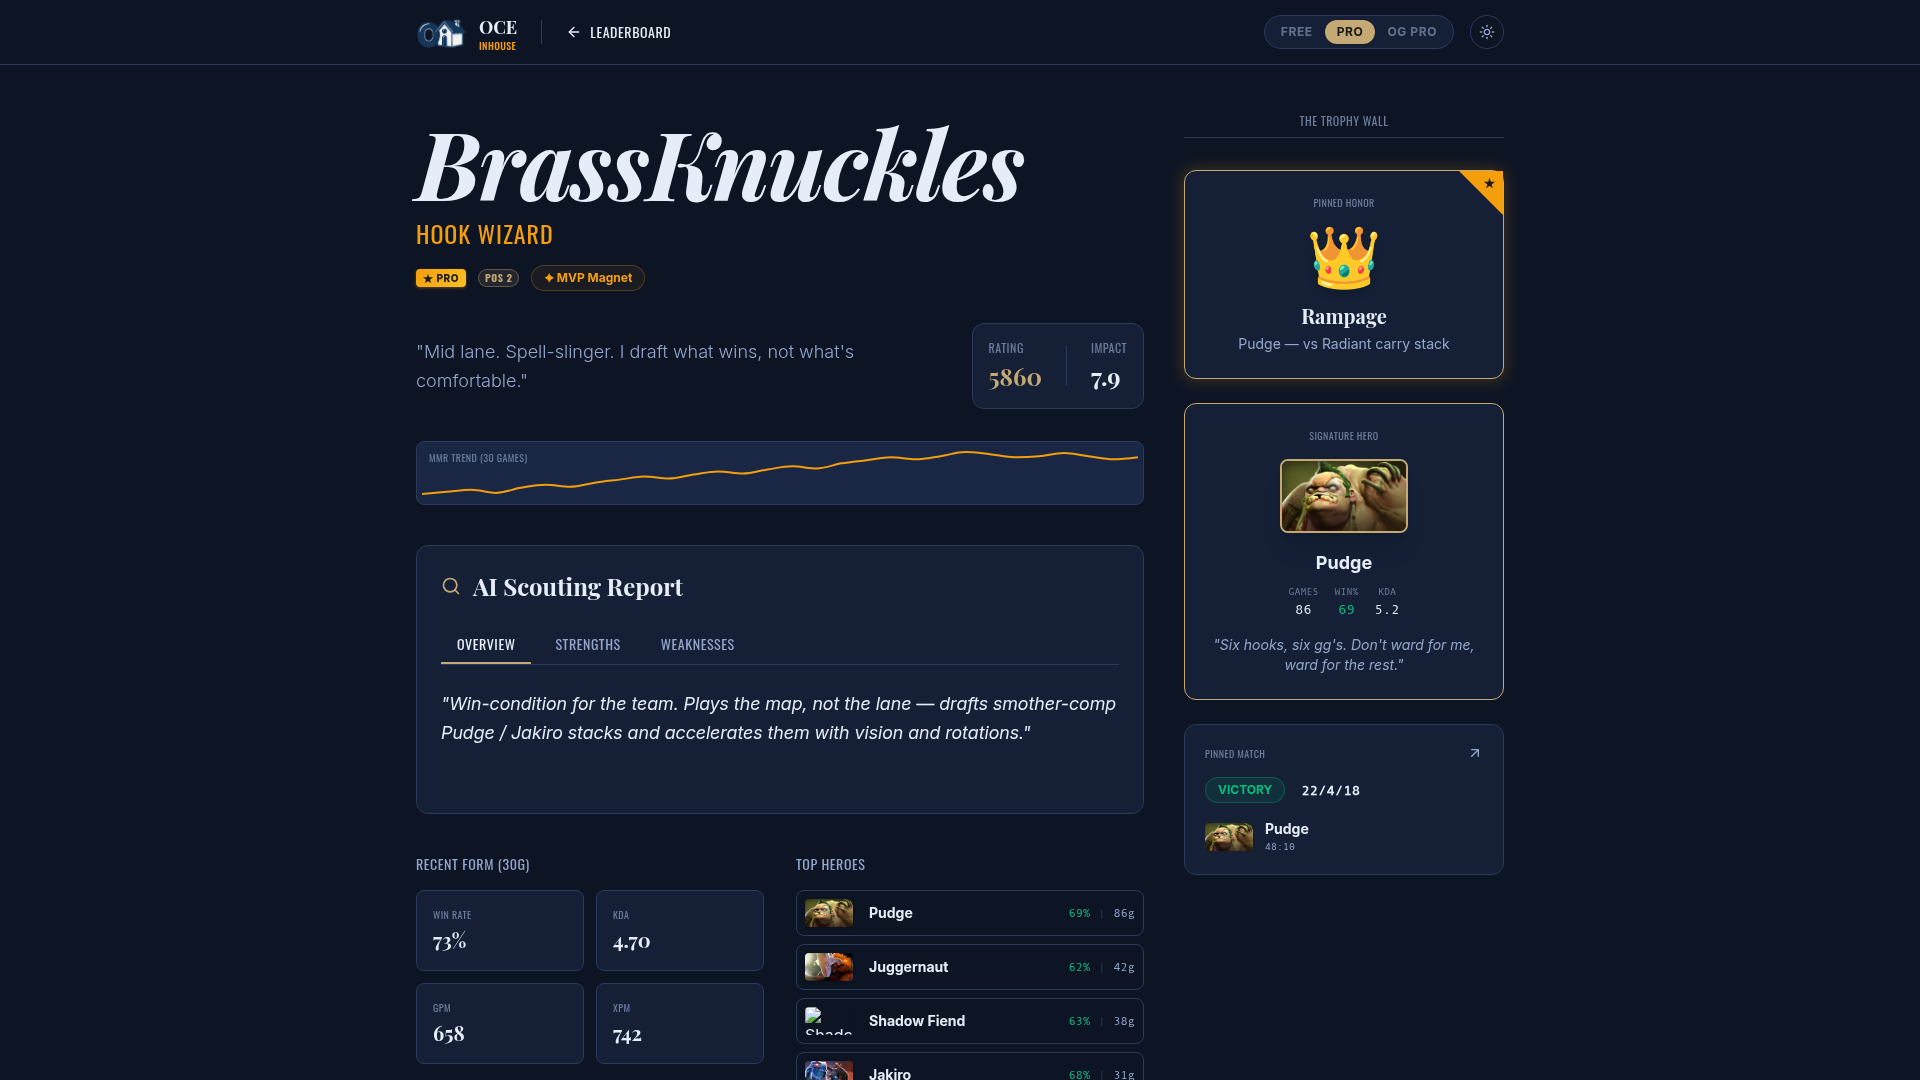
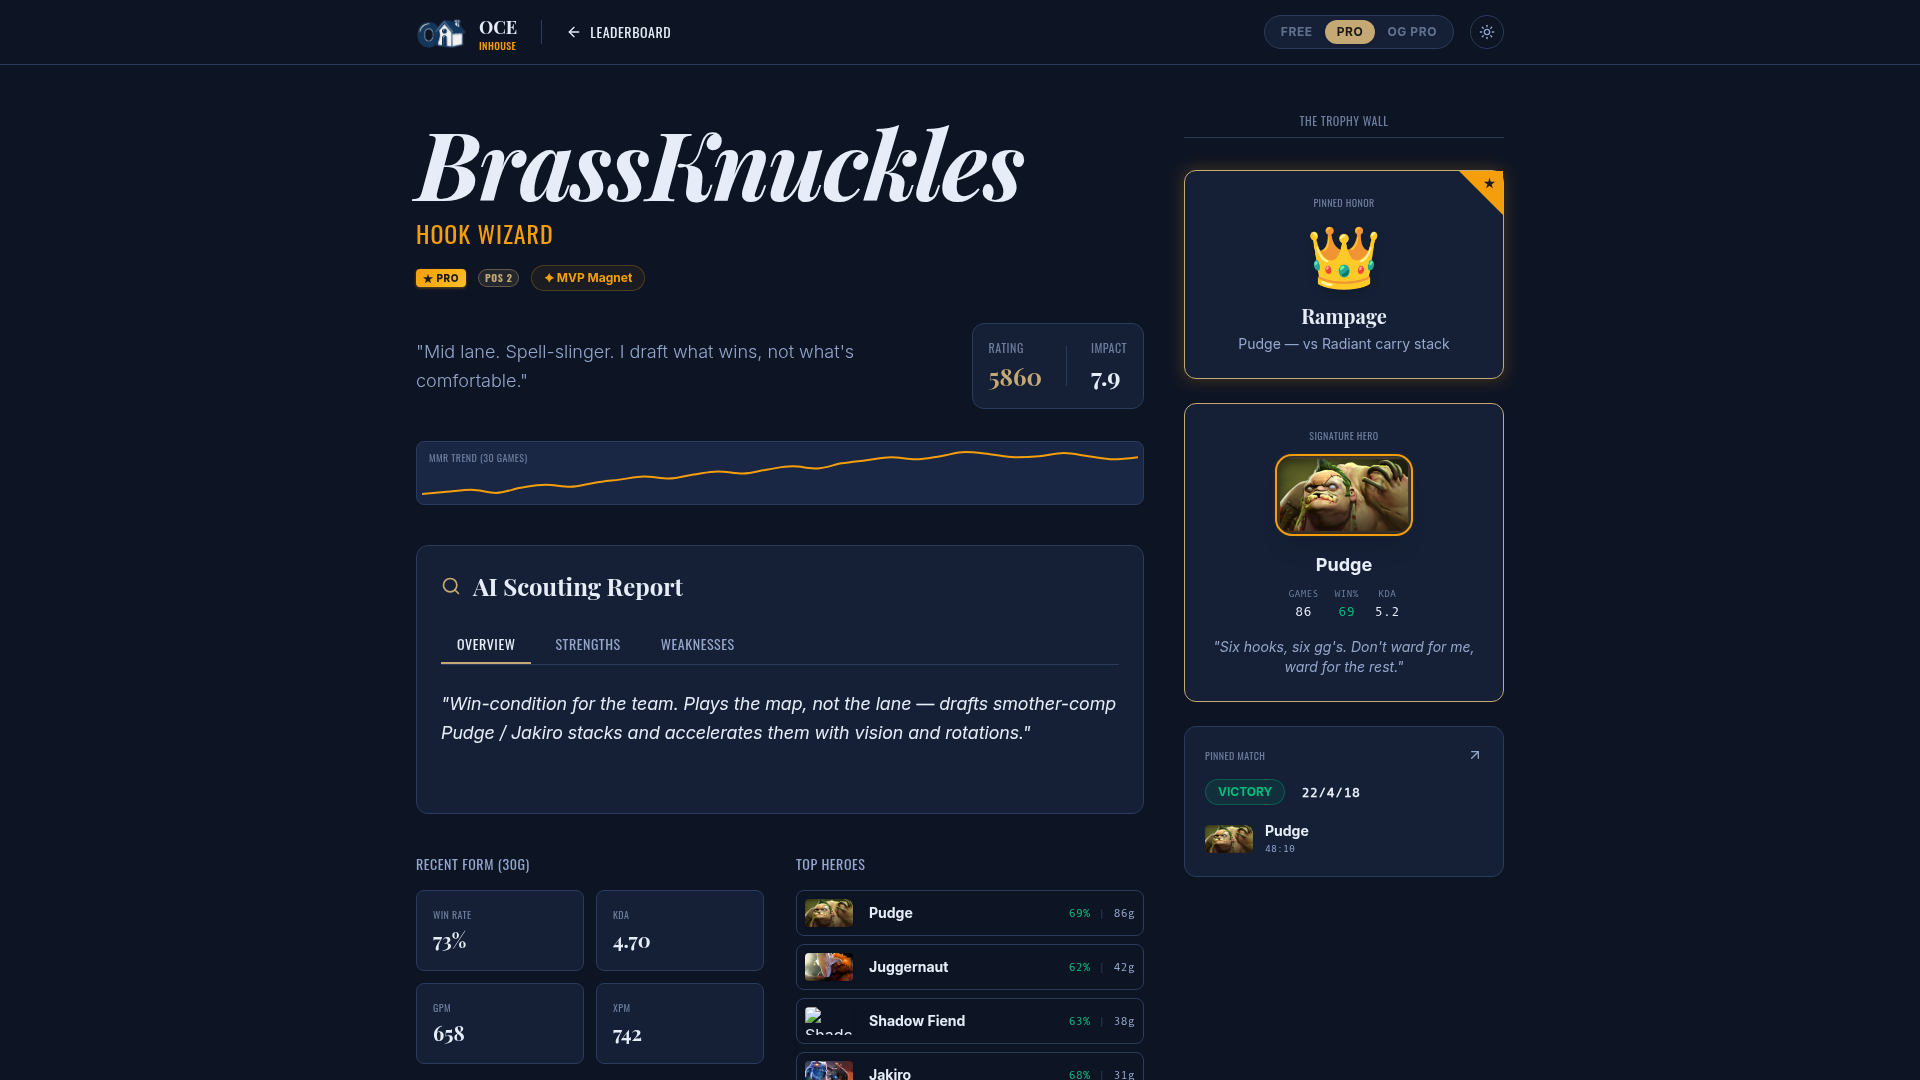
Task #152 — PlayerProfile redesign mockups (3 variants on canvas)
Mockup-only canvas work showcasing 3 PlayerProfile redesign directions
that lean into the existing customization + paid Pro content. No live
web/ or community-edition changes.

Files added in artifacts/mockup-sandbox/src/components/mockups/profile-redesign/:
- _profile.css       — shared Court & Pitch tokens scoped to .pp-redesign,
                       light/dark theme, .pro-card / .pro-corner /
                       .pro-chip / .lock-overlay / .frame-animated patterns
- _mockProfile.ts    — 3 personas (Free=ShadowCarry, Pro=BrassKnuckles,
                       OG Pro=OldManOffLane) with full customization,
                       pinned hero/match/achievement, top heroes,
                       achievements, MMR history, scouting, socials
- TrophyWall.tsx     — magazine hero header + right-rail trophy wall
                       sidebar + tabbed AI scouting + sparkline MMR
- MagazineSpread.tsx + _magazinespread.css
                     — two-column editorial spread (profile/hero left,
                       story stack right). Fix during integration:
                       added missing `Activity` and `Trophy` lucide
                       imports the design subagent omitted
- TacticalDossier.tsx + _tacticaldossier.css
                     — esports-roster dossier; identity strip + grid
                       of brass-ruled stat tiles; Pro upgrades existing
                       tiles instead of unlocking new ones

Canvas:
[…]

Changed region(s): [[0.6562, 0.3972, 0.75, 0.55], [0.625, 0.5806, 0.75, 0.6417], [0.625, 0.6722, 0.6875, 0.7944]]

diff --git a/artifacts/mockup-sandbox/src/components/mockups/profile-redesign/TrophyWall.tsx b/artifacts/mockup-sandbox/src/components/mockups/profile-redesign/TrophyWall.tsx
@@ -75,7 +75,7 @@ export function TrophyWall() {
             <div className="flex flex-col gap-6">
               <div className="flex flex-wrap items-end justify-between gap-4">
                 <div>
-                  <h1 className="font-serif italic text-6xl md:text-8xl font-bold leading-none tracking-tight" style={{ color: 'var(--text-main)' }}>
+                  <h1 className="font-serif italic text-4xl sm:text-5xl md:text-7xl lg:text-8xl font-bold leading-none tracking-tight break-words" style={{ color: 'var(--text-main)' }}>
                     {player.display_name}
                   </h1>
                   {player.customization.custom_title && (
@@ -307,12 +307,18 @@ export function TrophyWall() {
           {/* Pinned Hero */}
           <div className="p-6 rounded-xl border flex flex-col items-center text-center" style={{ backgroundColor: 'var(--bg-card)', borderColor: player.pinnedHero.borderColor || 'var(--border-strong)' }}>
             <div className="font-condensed text-[10px] tracking-widest uppercase mb-4" style={{ color: 'var(--text-faint)' }}>Signature Hero</div>
-            <img 
-              src={heroImg(player.pinnedHero.hero_id)} 
-              alt={player.pinnedHero.name} 
-              className="w-32 h-auto rounded-lg shadow-xl mb-4 border-2" 
-              style={{ borderColor: player.pinnedHero.borderColor || 'transparent' }}
-            />
+            <div className={`mb-5 ${
+              isOG && player.customization.extras.frame_animated ? 'frame-animated'
+                : player.customization.profile_frame === 'gold' ? 'frame-gold'
+                : player.customization.profile_frame === 'silver' ? 'frame-silver'
+                : ''
+            }`}>
+              <img 
+                src={heroImg(player.pinnedHero.hero_id)} 
+                alt={player.pinnedHero.name} 
+                className="w-32 h-auto rounded-lg shadow-xl block"
+              />
+            </div>
             <h4 className="font-bold text-lg mb-2" style={{ color: 'var(--text-main)' }}>{player.pinnedHero.name}</h4>
             <div className="flex gap-4 text-sm font-mono mb-4">
               <div className="flex flex-col"><span style={{ color: 'var(--text-faint)', fontSize: 10 }}>GAMES</span><span style={{ color: 'var(--text-main)' }}>{player.pinnedHero.games}</span></div>

diff --git a/artifacts/mockup-sandbox/src/components/mockups/profile-redesign/MagazineSpread.tsx b/artifacts/mockup-sandbox/src/components/mockups/profile-redesign/MagazineSpread.tsx
@@ -2,7 +2,7 @@ import React, { useState } from "react";
 import "./_profile.css";
 import "./_magazinespread.css";
 import { PERSONAS, heroImg, fmtDuration, fmtDate, type Persona } from "./_mockProfile";
-import { Moon, Sun, ArrowLeft, Twitch, Youtube, Gamepad2, Settings2, BarChart2, Star, Unlock, Eye, Sparkles, Activity } from "lucide-react";
+import { Moon, Sun, ArrowLeft, Twitch, Youtube, Gamepad2, Settings2, BarChart2, Star, Unlock, Eye, Sparkles, Activity, Trophy } from "lucide-react";
 import {
   LineChart, Line, XAxis, YAxis, Tooltip, ResponsiveContainer
 } from "recharts";
